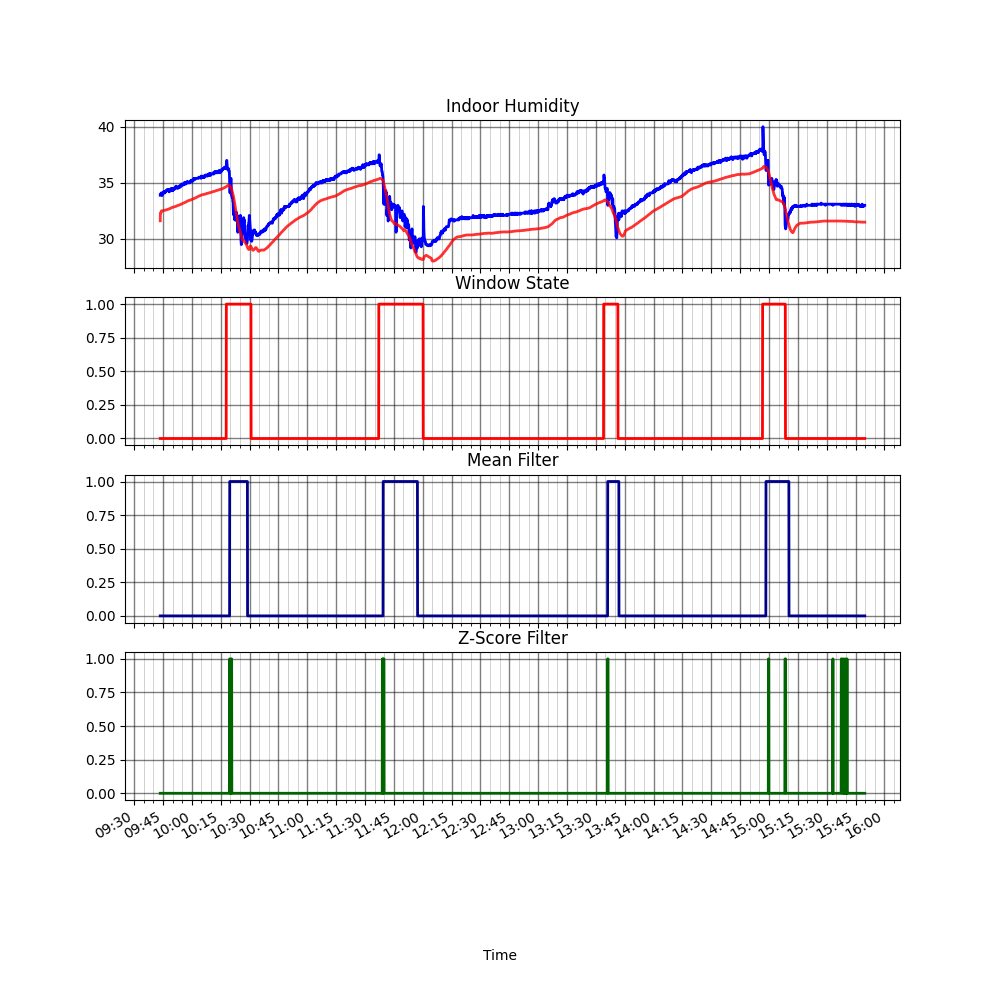
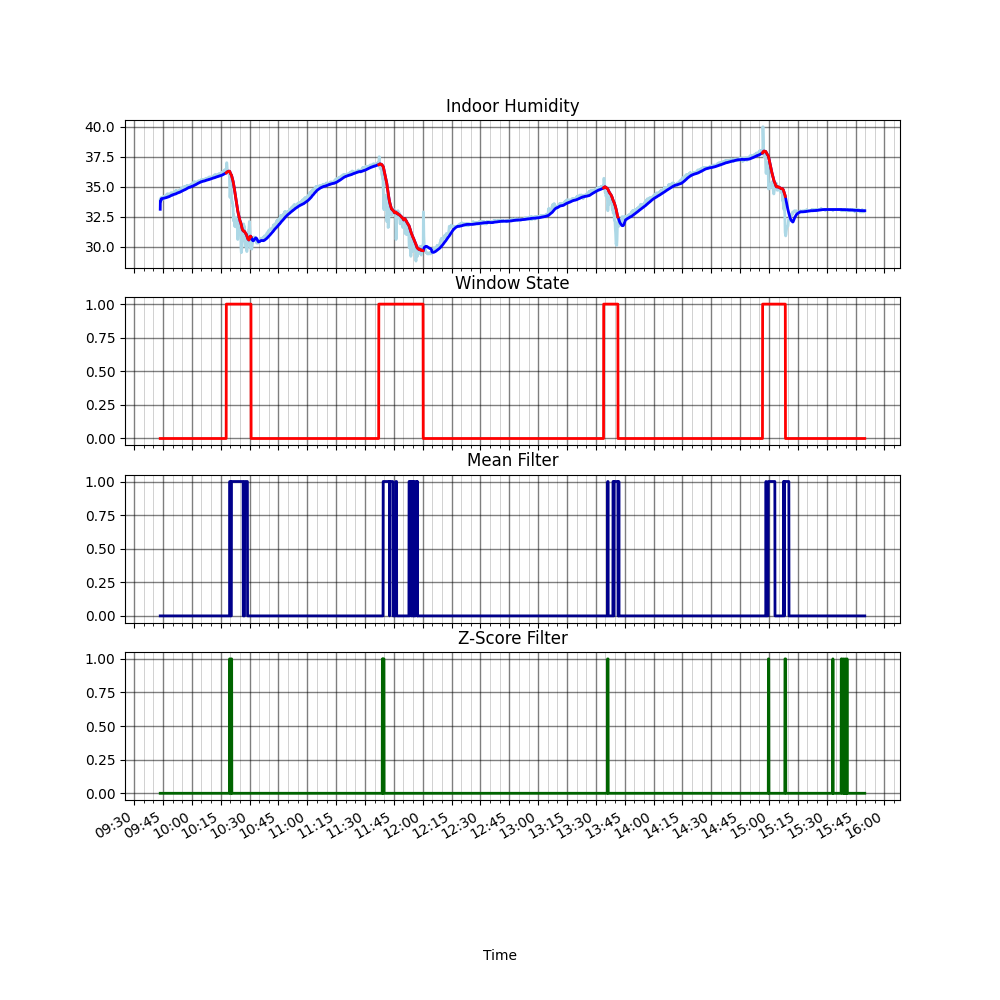
bug fixes in algorithms

diff --git a/DataProcessor/plot_tools/indoorPlot.py b/DataProcessor/plot_tools/indoorPlot.py
@@ -73,11 +73,10 @@ def plotFiltersHum():
                                        algorithms.rhum_influence)['signals']
     acc_res = algoChecker.get_results(filename)
 
-    ax1.plot(data["time"], data["rHum"], label='indoor rhum', color='blue', linewidth=2)
-    #ax1.plot(data["time"], data["avgHum"], label='indoor avg. rhum', color='royalblue', linewidth=2)
-    #ax1.plot(data["time"], data["window"], color='red', linewidth=2)
-    ax1.plot(data["time"], list(map(lambda x: x - algoSettings.hum_threshold, data["avgHum"])), label="lower threshold",
-             color="red", linewidth=2, alpha=0.8)
+    ax1.plot(data["time"], data["rHum"], label='indoor rhum', color='lightblue', linewidth=2)
+    ax1.plot(data["time"], data["avgHum"], label='indoor avg. rhum', color='blue', linewidth=2)
+    ax1.plot(data["time"], data["window"], color='red', linewidth=2)
+    #ax1.plot(data["time"], list(map(lambda x: x - algoSettings.hum_threshold, data["avgHum"])), label="lower threshold",color="red", linewidth=2, alpha=0.8)
     ax2.plot(data["time"], data["windowState"], label='window state', color='red', linewidth=2)
     ax3.plot(data["time"], m_rhum, label='mean filter, acc: ' + str('%.2f' % acc_res["mean_rhum"]["acc"]), color='darkblue', linewidth=2)
     ax4.plot(data["time"], z_rhum, label='z-score filter, acc: ' + str('%.2f' % acc_res["thresholding_rhum"]["acc"]), color='darkgreen', linewidth=2)

diff --git a/DataProcessor/signal_processing/algorithms.py b/DataProcessor/signal_processing/algorithms.py
@@ -3,6 +3,15 @@
 
 import numpy as np
 
+# rhum settings for z-score
+rhum_lag = 100
+rhum_threshold = 4
+rhum_influence = 0.5
+# co2 settings for z-score
+co2_lag = 100
+co2_threshold = 6
+co2_influence = 0.5
+
 def mean_algo(y,lag, threshold):
     signals = np.zeros(len(y))
     for i in range(lag, len(y)):
